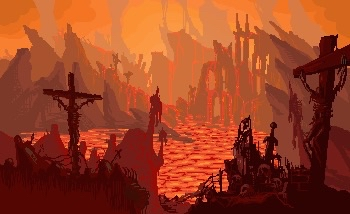
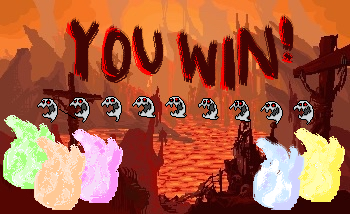
Add end screen art & logic

diff --git a/js/cemeteryLevel.js b/js/cemeteryLevel.js
@@ -24,10 +24,11 @@ const BW_INTERVAL = 5;   // seconds between flickers
 const BW_DURATION = 3;    // seconds in grayscale
 
 class CemeteryOrb {
-  constructor(x, y, c) {
+  constructor(x, y, img, c) {
     this.x = x;
     this.y = y;
     this.r = 16;
+    this.img = img;
     this.c = c;
     this.collected = false;
 
@@ -82,9 +83,14 @@ class CemeteryOrb {
       this.stateTime = 2;
     }
 
-    noStroke();
-    fill(this.c);
-    circle(this.x, this.y, this.r * 2);
+    imageMode(CENTER);
+    if (cemIsBW) {
+      tint(200);   // grayscale tint
+    } else {
+      noTint();
+    }
+    image(this.img, this.x, this.y, this.r*4, this.r*4);
+    noTint();
 
     fill(255, 240);
     circle(this.x - this.r / 3, this.y - this.r / 3, this.r / 2);
@@ -102,31 +108,23 @@ class CemeteryOrb {
 }
 
 class MatchOrb {
-  constructor(x, y, c) {
+  constructor(x, y, img, c) {
     this.x = x;
     this.y = y;
     this.r = 16;
+    this.img = img;
     this.c = c;
     this.matched = false;
   }
 
+  
   draw() {
     if (this.matched) return;
-
-    noStroke();
-    if (cemIsBW) {
-      fill(200);   //gray out     
-    } else {
-      fill(this.c);    
-    }
-    circle(this.x, this.y, this.r * 2);
-
-    if (cemIsBW) {
-      fill(230);
-    } else {
-      fill(255, 240);
-    }
-    circle(this.x - this.r / 3, this.y - this.r / 3, this.r / 2);
+    
+    imageMode(CENTER);
+    if (cemIsBW) tint(200); else noTint();
+    image(this.img, this.x, this.y, this.r*4, this.r*4);
+    noTint();
   }
 }
 
@@ -161,14 +159,13 @@ function startCemeteryLevel() {
   isScaring = false;
 
 //COLOR LAST NAMES 
-  const colorData = [
-    { label: "Rivera",   col: color( 80, 170, 255) }, // blue
-    { label: "Nguyen",   col: color(255, 230, 100) }, // yellow
-    { label: "Martinez", col: color(120, 220, 140) }, // green
-    { label: "Patel",    col: color(255, 160,  70) }, // orange
-    { label: "Kaur",     col: color(255, 140, 210) }  // pink
-  ];
-
+const colorData = [
+  { label: "Rivera",   col: color( 80, 170, 255), img: blueSoul   }, // blue
+  { label: "Nguyen",   col: color(255, 230, 100), img: yellowSoul }, // yellow
+  { label: "Martinez", col: color(120, 220, 140), img: greenSoul  }, // green
+  { label: "Patel",    col: color(255, 160,  70), img: orangeSoul }, // orange
+  { label: "Kaur",     col: color(255, 140, 210), img: pinkSoul   }  // pink
+];
 
   const startY = height / 2 - 100;
   const nameX  = width * 0.16;
@@ -195,7 +192,7 @@ function startCemeteryLevel() {
     const p = orbPositions[i];
     const x = p.xf * width;
     const y = p.yf * height;
-    cemeteryOrbs.push(new CemeteryOrb(x, y, colorData[i].col));
+    cemeteryOrbs.push(new CemeteryOrb(x, y, colorData[i].img, colorData[i].col)); 
   }
 
   // MATCHinng phase orbs on right, shuffled so colors don't line up with names
@@ -209,7 +206,8 @@ function startCemeteryLevel() {
       new MatchOrb(
         matchStartX,
         matchStartY + i * 40,
-        orbColors[i].col
+        orbColors[i].img,  // the image!
+        orbColors[i].col   // the color
       )
     );
   }
@@ -411,9 +409,30 @@ function cemeteryMouseReleased() {
         col: draggingOrb.c
       });
 
-      // TODO: if (matchesMade === graves.length) -> trigger evil ghost ending
+      if (matchesMade === graves.length) {
+        GAME_STATE = "ENDSCREEN";
+      }
     }
   }
 
   draggingOrb = null;
 }
+
+function drawEndScreen() {
+  image(endScreen, width / 2, height / 2, width, height);
+  noStroke();
+  fill(0, 0, 0, 110);
+  rect(0, 0, width, height);
+
+  textAlign(CENTER, CENTER);
+
+  fill(255);
+  textSize(38);
+  text("You Win!", width / 2, height - 80);
+
+  fill(255);
+  textSize(18);
+  text("Press R to Restart", width / 2, height - 40);
+}
+
+

diff --git a/js/ghostMovement.js b/js/ghostMovement.js
@@ -169,6 +169,13 @@ function preload() {
   cityBg = loadImage("assets/city_bg.png");
   uiButtons = loadImage("assets/buttons free.png"); 
   gameOver = loadImage("assets/gameOver.png");
+  endScreen = loadImage("assets/endScreen.png");
+
+  blueSoul = loadImage("assets/blueSoul.png");
+  pinkSoul = loadImage("assets/pinkSoul.png");
+  greenSoul = loadImage("assets/greenSoul.png");
+  orangeSoul = loadImage("assets/orangeSoul.png");
+  yellowSoul = loadImage("assets/yellowSoul.png");
 
   bgMusic = loadSound("assets/bgMusic.mp3");
   spookyFont = loadFont('assets/THE FANTOMS FONT.otf');
@@ -215,8 +222,14 @@ function draw() {
     drawGameOver();
     return;
   }
+  
    if (GAME_STATE === "CEMETERY") {
     drawCemeteryLevel();   
+    return;
+  }
+
+  if (GAME_STATE === "ENDSCREEN") {
+    drawEndScreen();
     return;
   }
 
